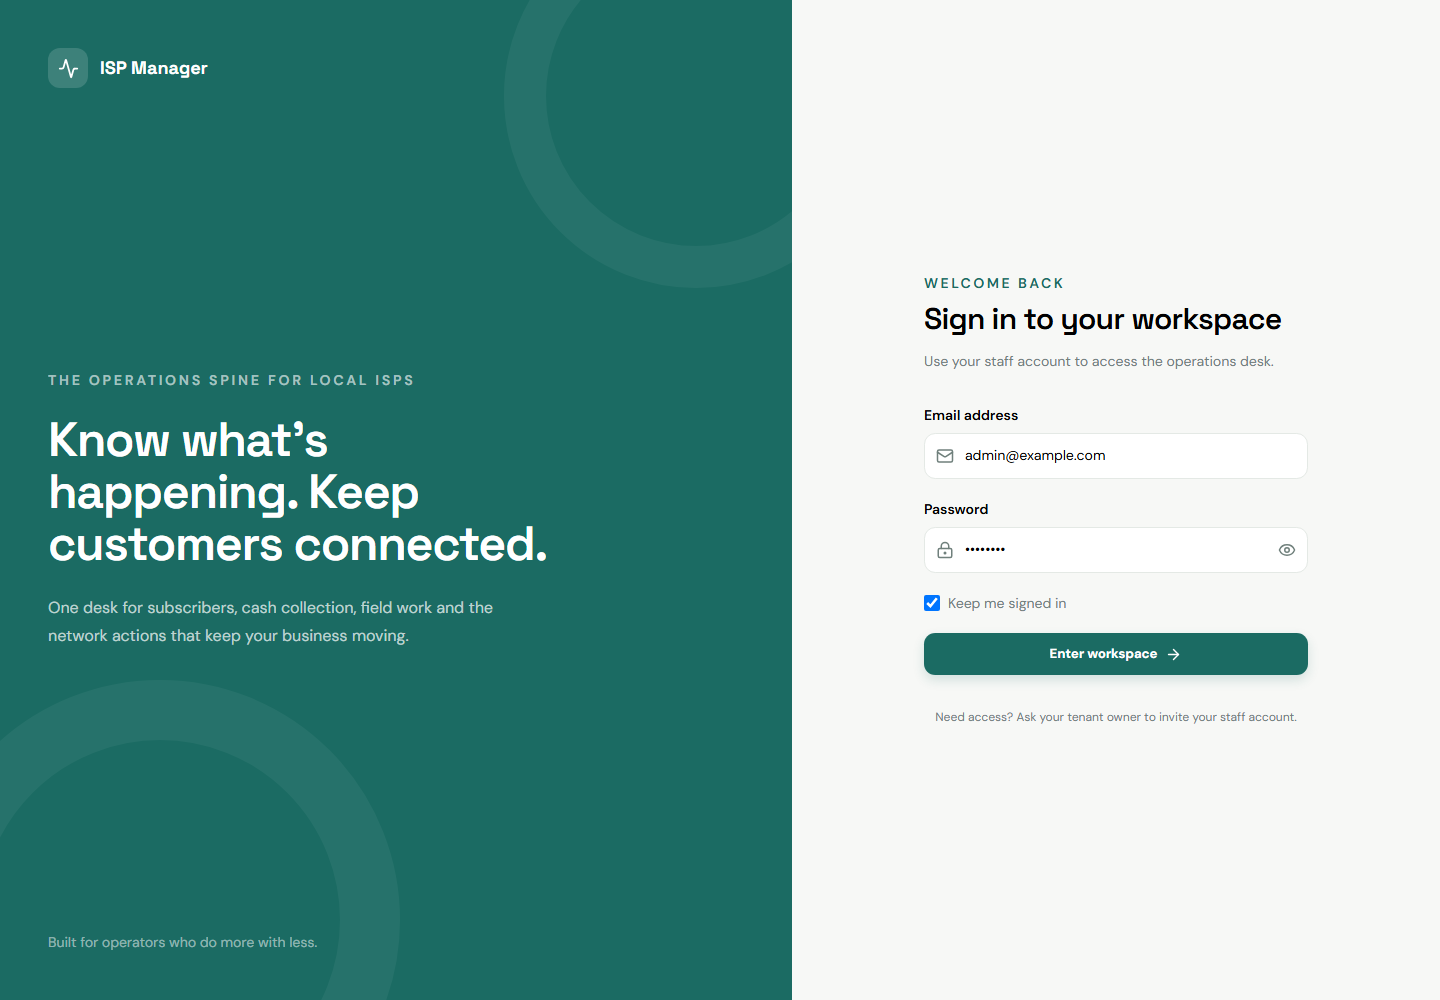
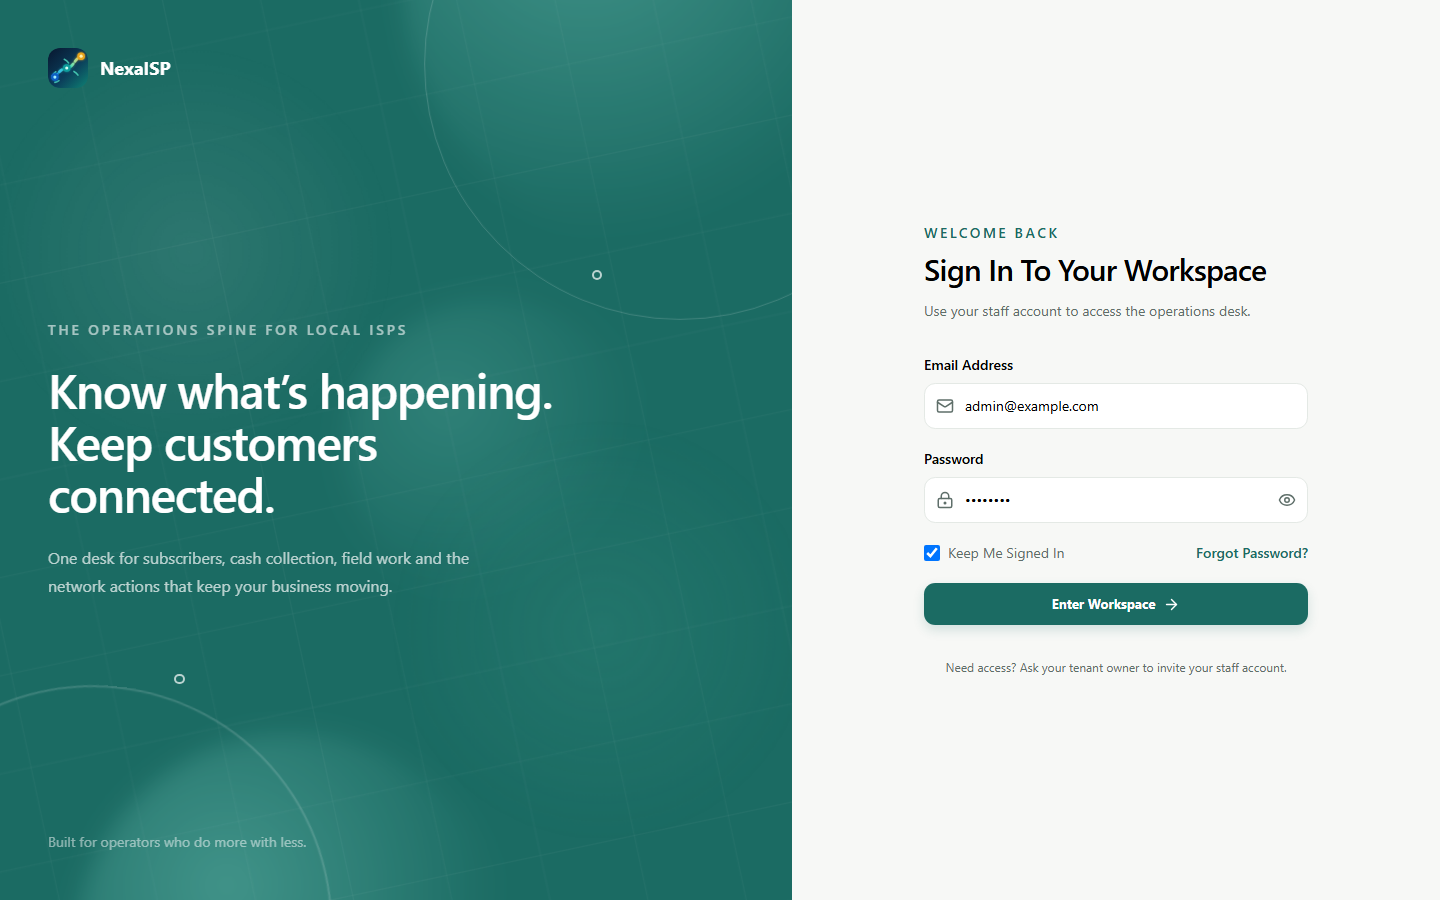
feat: refresh NexaISP brand kit and product README

diff --git a/database/seeders/DatabaseSeeder.php b/database/seeders/DatabaseSeeder.php
@@ -40,15 +40,6 @@ use Illuminate\Support\Facades\Storage;
 
 class DatabaseSeeder extends Seeder
 {
-    private const DEMO_LOGO = <<<'SVG'
-<svg xmlns="http://www.w3.org/2000/svg" viewBox="0 0 160 160" role="img" aria-labelledby="title">
-  <title>Northline Broadband</title>
-  <rect width="160" height="160" rx="36" fill="#0f766e"/>
-  <path fill="#fef3c7" d="M38 116V44h18l23 34V44h18v72H79L56 82v34H38Z"/>
-  <circle cx="119" cy="115" r="9" fill="#fbbf24"/>
-</svg>
-SVG;
-
     /** @var list<array{email: string, name: string, role: string}> */
     private const DEMO_STAFF_ACCOUNTS = [
         ['email' => 'admin@example.com', 'name' => 'Maya Haddad', 'role' => 'tenant_owner'],
@@ -303,8 +294,13 @@ SVG;
 
         $disk = (string) config('filesystems.default', 'local');
         $path = 'tenants/'.$tenant->public_id.'/demo-logo.svg';
+        $logo = file_get_contents(public_path('brand/nexa-isp.svg'));
 
-        Storage::disk($disk)->put($path, self::DEMO_LOGO, ['visibility' => 'private', 'ContentType' => 'image/svg+xml']);
+        if ($logo === false) {
+            return;
+        }
+
+        Storage::disk($disk)->put($path, $logo, ['visibility' => 'private', 'ContentType' => 'image/svg+xml']);
         $tenant->forceFill(['logo_path' => $path])->save();
     }
 }

diff --git a/README.md b/README.md
@@ -1,59 +1,121 @@
-# NexaISP
+<p align="center">
+  <img src="public/brand/nexa-isp.svg" alt="NexaISP connected signal mark" width="96" />
+</p>
 
-NexaISP is a tenant-aware operations platform for internet providers and resellers. It brings subscriber CRM, service lifecycle, billing, collections, field work, support, inventory, and network operations into one focused workspace.
+<h1 align="center">NexaISP</h1>
 
-## What is included
+<p align="center">
+  The operations spine for local ISPs and internet resellers.
+  <br />Know what is happening. Keep customers connected.
+</p>
 
-- Shared-schema multi-tenancy with tenant-scoped Eloquent models and permission teams.
-- A platform control plane for a `super_admin` or legacy `platform_operator`.
-- One-step tenant provisioning: workspace, owner account, currencies, sequences, templates, and operational defaults.
-- Tenant branding with logo upload, staff-shell branding, portal branding, and PDF logo support.
-- Role-based staff access, invitations, two-factor authentication, recent-authentication gates, and audit events.
-- Customer, service, plan, invoice, payment, cash shift, ticket, work-order, inventory, supplier, partner, router, POP, RADIUS, and WhatsApp workflows.
-- Inertia 3, React 19, TypeScript, Tailwind CSS 4, PostgreSQL, Redis, Reverb, and Pest 4.
+<p align="center">
+  <a href="#what-nexaisp-does">Features</a> |
+  <a href="#integrations">Integrations</a> |
+  <a href="#screenshots">Screenshots</a> |
+  <a href="#quick-start">Quick start</a>
+</p>
 
-## Tenant model
+![NexaISP command center](public/brand/social/nexa-isp-open-graph.png)
 
-NexaISP uses one database with an explicit `tenant_id` context. Tenant-owned models are globally scoped, and Spatie Permission teams keep roles and permissions inside the active tenant.
+NexaISP is a tenant-aware ISP operations platform that connects subscriber CRM, service provisioning, billing, collections, field work, support, inventory, and network operations in one focused workspace.
+
+## What NexaISP does
+
+| Area | What is included |
+| --- | --- |
+| **Platform control plane** | Shared-schema multi-tenancy, explicit `tenant_id` context, tenant provisioning, lifecycle status, audit events, and a `super_admin` control plane. |
+| **Subscriber CRM** | Customer records, contacts, addresses, service locations, zones, documents, saved views, imports, search, and renewal queues. |
+| **Service lifecycle** | Plans, effective-dated prices, add-ons, promotions, service activation, suspension, termination, provisioning modes, routers, IP pools, and scheduled plan changes. |
+| **Billing and finance** | Invoices, credit notes, payments, ledger entries, payment allocations, FX conversion, cash shifts, collector custody, expenses, supplier payables, statements, and PDF/receipt links. |
+| **Field operations** | Work orders, installation acceptance, field days, check-ins, routes, collector tasks, customer visits, GPS capture, expenses, stock requests, and mobile-friendly queues. |
+| **Inventory and partners** | Serialized equipment, bulk stock, warehouses, technician vans, transfers, stock counts, recovery, supplier credentials, partner price books, reseller wallets, and settlements. |
+| **Network operations** | Routers, RouterOS commands, RADIUS sessions and accounting, network state, reconciliation, optical devices/readings, topology buildings, POPs, splitters, and service drift signals. |
+| **Support and messaging** | Ticket queues, canned ticket responses, notification templates, WhatsApp delivery accounts, delivery history, safety limits, test messages, and customer communication trails. |
+| **Customer portal** | Tenant-branded portal, OTP sign-in, service status, invoices, payment links, secure card/QR payment flows, support tickets, profile details, and service notices. |
+| **Governance and readiness** | Capability-based authorization, tenant roles, invitations, two-factor authentication, recent-authentication gates, audit trails, backup checks, provider probes, and pilot-readiness checklists. |
+
+## Integrations
+
+| Integration | Capability |
+| --- | --- |
+| **Stripe** | Card payments, payment intents, webhook verification, refunds/reversals, and ledger-safe settlement. |
+| **Whish Pay** | QR checkout, provider status polling, verified callbacks, redirects, and payment reconciliation. |
+| **Frankfurter** | Currency catalog refresh and effective-dated exchange-rate imports for multi-currency billing. |
+| **WhatsApp Cloud API** | Tenant-configured templates, language variables, delivery receipts, test sends, and provider webhooks. |
+| **WhatsApp Web.js** | Optional private bridge for dedicated operator accounts, QR pairing, controlled delivery, and account-level rate limits. |
+| **MikroTik RouterOS** | Router health, subscriber reconciliation, provisioning commands, command queues, and network state checks. |
+| **RADIUS / FreeRADIUS** | Interim accounting, active sessions, daily usage rollups, quota/FUP signals, and disconnect commands. |
+| **Laravel Reverb + Echo** | Optional realtime updates for operational queues and network state. |
+| **Redis, database queues, and S3-compatible storage** | Production-ready cache/queue options and private media, backup, receipt, and tenant-logo storage. |
+| **Webhook adapters** | Optional SMS, FCM, external network, monitoring, and delivery integrations through signed webhooks. |
+
+## Multi-tenancy and super admin
+
+NexaISP keeps a single database with an explicit tenant context. Tenant-owned models are scoped automatically, while the platform control plane remains outside tenant context.
 
 ```text
 super_admin / platform_operator
-        └── platform control plane
-              ├── Tenant A ── tenant_owner ── staff roles
-              ├── Tenant B ── tenant_owner ── staff roles
-              └── Tenant C ── tenant_owner ── staff roles
+        |
+        +-- Platform control plane
+              +-- Tenant A -- tenant_owner -- staff roles
+              +-- Tenant B -- tenant_owner -- staff roles
+              +-- Tenant C -- tenant_owner -- staff roles
 ```
 
-Platform administrators can list, create, suspend, and archive workspaces. They do not enter tenant customer or financial data; tenant access remains an explicit, separately implemented break-glass workflow.
-
-## Create a tenant
-
-1. Sign in as `superadmin@example.com` or `platform@example.com`.
-2. Open **Platform → Tenants** at `/admin/tenants`.
-3. Enter the workspace name, unique slug, locale, timezone, base currency, and collection currency.
-4. Enter the first tenant owner's name, email, and temporary password.
-5. Submit **Create workspace**.
-
-The transaction creates the tenant and owner, assigns the `tenant_owner` role, provisions currencies/sequences/templates, and records a platform audit event. The owner should rotate the temporary password, configure branding and integrations, and complete **Settings → Pilot readiness** before handoff.
-
-### Roles
+Create a tenant from **Platform administration -> Tenants** (`/admin/tenants`). The transaction creates the workspace, first owner, currencies, sequences, notification templates, operational defaults, and a platform audit event.
 
 | Scope | Role | Purpose |
 | --- | --- | --- |
-| Platform | `super_admin` | Full platform authorization and tenant control plane access. |
+| Platform | `super_admin` | Full platform authorization and tenant control-plane access. |
 | Platform | `platform_operator` | Backward-compatible platform operator role. |
 | Tenant | `tenant_owner` | Full access inside one tenant workspace. |
 | Tenant | `operations_manager`, `billing_manager`, `cashier`, `collector`, `support_agent`, `technician`, `network_administrator`, `reseller_owner`, `reseller_staff`, `auditor` | Capability-limited staff roles. |
 
-Authorization checks use capabilities (`$user->can('customers.view')`) rather than hard-coded role checks. `super_admin` is intercepted by Laravel's `Gate::before` hook and can authorize every capability while remaining outside tenant context.
+Authorization is capability-based (`$user->can('customers.view')`). The super admin is granted through Laravel's `Gate::before` hook and does not inherit tenant data by accident.
 
-## Branding
+## Screenshots
 
-The default platform identity is **NexaISP** with the connected-node mark in [`public/brand/nexa-isp.svg`](public/brand/nexa-isp.svg). Change `APP_NAME` in `.env` for the platform name; the Inertia shell, auth pages, document title, and favicon read it from Laravel configuration.
+The screenshots below are captured from the seeded local workspace and kept in [`docs/guides/screenshots`](docs/guides/screenshots).
 
-Each tenant can upload a JPG, PNG, or WebP logo (maximum 2 MB) from **Settings → Workspace settings**. The same tenant logo is used in the staff shell, customer portal, and generated payment receipts. Logo files are stored on the configured filesystem under a tenant-specific path.
+### Sign in and command center
 
-## Local development
+<p align="center">
+  <img src="docs/guides/screenshots/login.png" alt="NexaISP sign-in screen" width="49%" />
+  <img src="docs/guides/screenshots/dashboard.png" alt="NexaISP operations dashboard" width="49%" />
+</p>
+
+### Subscriber CRM and commercial catalog
+
+<p align="center">
+  <img src="docs/guides/screenshots/customers.png" alt="NexaISP customer CRM" width="49%" />
+  <img src="docs/guides/screenshots/plans.png" alt="NexaISP plans and commercial catalog" width="49%" />
+</p>
+
+### Tenant operations and platform control
+
+<p align="center">
+  <img src="docs/guides/screenshots/settings-branding.png" alt="NexaISP workspace settings and branding" width="49%" />
+  <img src="docs/guides/screenshots/tenant-admin.png" alt="NexaISP super admin tenant workspaces" width="49%" />
+</p>
+
+## Brand kit
+
+The current NexaISP identity uses a connected signal path: three nodes represent customers, commercial operations, and network delivery.
+
+| Asset | Use |
+| --- | --- |
+| [`public/brand/nexa-isp.svg`](public/brand/nexa-isp.svg) | Animated-capable app mark. The signal path flows continuously and respects `prefers-reduced-motion`. |
+| [`public/brand/nexa-isp-mark.png`](public/brand/nexa-isp-mark.png) | Generated high-resolution source mark with alpha transparency. |
+| [`public/brand/social/nexa-isp-linkedin-cover.png`](public/brand/social/nexa-isp-linkedin-cover.png) | 1500 x 500 LinkedIn/X cover banner. |
+| [`public/brand/social/nexa-isp-open-graph.png`](public/brand/social/nexa-isp-open-graph.png) | 1200 x 630 website, GitHub, and Open Graph preview. |
+| [`public/brand/social/nexa-isp-social-square.png`](public/brand/social/nexa-isp-social-square.png) | 1080 x 1080 social post tile. |
+| [`public/brand/nexa-isp-social-wide.png`](public/brand/nexa-isp-social-wide.png) | Wide abstract network artwork for future campaign variants. |
+| [`public/brand/nexa-isp-social-square.png`](public/brand/nexa-isp-social-square.png) | Square abstract service-network artwork for future campaign variants. |
+
+Tenant logos can also be uploaded from **Settings -> Workspace settings**. JPG, PNG, and WebP files up to 2 MB are stored on the configured private disk and reused by the staff shell, customer portal, and payment receipts.
+
+## Quick start
 
 Requirements: PHP 8.3+, Composer 2, Node 22+, npm 10+, and SQLite for the fastest local loop. Docker is recommended for PostgreSQL, Redis, Mailpit, and MinIO.
 
@@ -68,7 +130,7 @@ composer run dev
 
 Open [http://localhost:8000](http://localhost:8000).
 
-Development accounts use the password `password` after seeding:
+All seeded local accounts use the password `password`:
 
 | Account | Role |
 | --- | --- |
@@ -86,7 +148,7 @@ Development accounts use the password `password` after seeding:
 | `reseller.staff@example.com` | Reseller staff |
 | `auditor@example.com` | Auditor |
 
-Never use these credentials outside local development.
+Never use seeded credentials outside local development.
 
 ### Optional WhatsApp bridge
 
@@ -95,7 +157,21 @@ $env:PUPPETEER_EXECUTABLE_PATH = 'C:\Program Files\Google\Chrome\Application\chr
 npm run dev:whatsapp
 ```
 
-Enable the local bridge values in `.env` first. The bridge is optional and should stay private.
+Enable the private bridge values in `.env` first. The bridge is optional and should never be exposed directly to the public internet.
+
+## Architecture
+
+NexaISP is a modular Laravel monolith with an Inertia React front end:
+
+- `app/Actions` owns one transactional operation per class.
+- `app/Models` contains tenant-aware persistence and relationships.
+- `app/Support/Tenancy.php` owns request and job tenant context.
+- `resources/js/pages` contains Inertia React screens.
+- `resources/js/lib/i18n.ts` contains the client translation dictionaries and safe key fallback.
+- `database/migrations` contains explicit, indexed schema changes.
+- `tests/Feature` and `tests/Unit` contain the Pest suite.
+
+Money is stored as integer minor units with ISO currencies. Provider credentials and service secrets use encrypted casts, hidden serialization, authorization, recent authentication, and audit boundaries.
 
 ## Quality checks
 
@@ -110,31 +186,19 @@ npm run build
 
 For browser acceptance, install Chromium once with `npx playwright install chromium`, then run `npm run e2e`.
 
-## Architecture
-
-The application is a modular monolith:
-
-- `app/Actions` owns one transactional operation per class.
-- `app/Models` contains tenant-aware persistence and relationships.
-- `app/Support/Tenancy.php` owns the request/job tenant context.
-- `resources/js/pages` contains Inertia React screens.
-- `database/migrations` contains explicit, indexed schema changes.
-- `tests/Feature` and `tests/Unit` contain the Pest test suite.
-
-Money is stored as integer minor units with ISO currencies. Sensitive provider credentials and service secrets use encrypted casts, hidden serialization, authorization, recent authentication, and audit boundaries.
-
 ## Repository map
 
 | Path | Purpose |
 | --- | --- |
-| `app/Actions` | Domain operations |
-| `app/Models` | Eloquent models |
-| `app/Support` | Tenancy, provisioning, integrations |
-| `resources/js` | Inertia pages and UI |
+| `app/Actions` | Domain operations and workflows |
+| `app/Models` | Tenant-aware Eloquent models |
+| `app/Support` | Tenancy, provisioning, integrations, and readiness |
+| `resources/js` | Inertia pages, components, layouts, and translations |
 | `database/migrations` | Database schema |
 | `tests` | Pest tests and browser acceptance |
-| `docs` | Runbooks and architecture notes |
+| `docs` | Runbooks, screenshots, and architecture notes |
+| `public/brand` | NexaISP logo and social brand assets |
 
-## Deployment notes
+## Deployment
 
-Use the production procedure in [`docs/runbooks/deployment.md`](docs/runbooks/deployment.md). Set a public `APP_URL`, keep PostgreSQL/Redis/MinIO private, enable production two-factor enforcement, and run the platform preflight before accepting tenant traffic.
+Use the production procedure in [`docs/runbooks/deployment.md`](docs/runbooks/deployment.md). Set a public `APP_URL`, keep PostgreSQL/Redis/object storage private, enable production two-factor enforcement, configure signed provider webhooks, and run the platform preflight before accepting tenant traffic.
